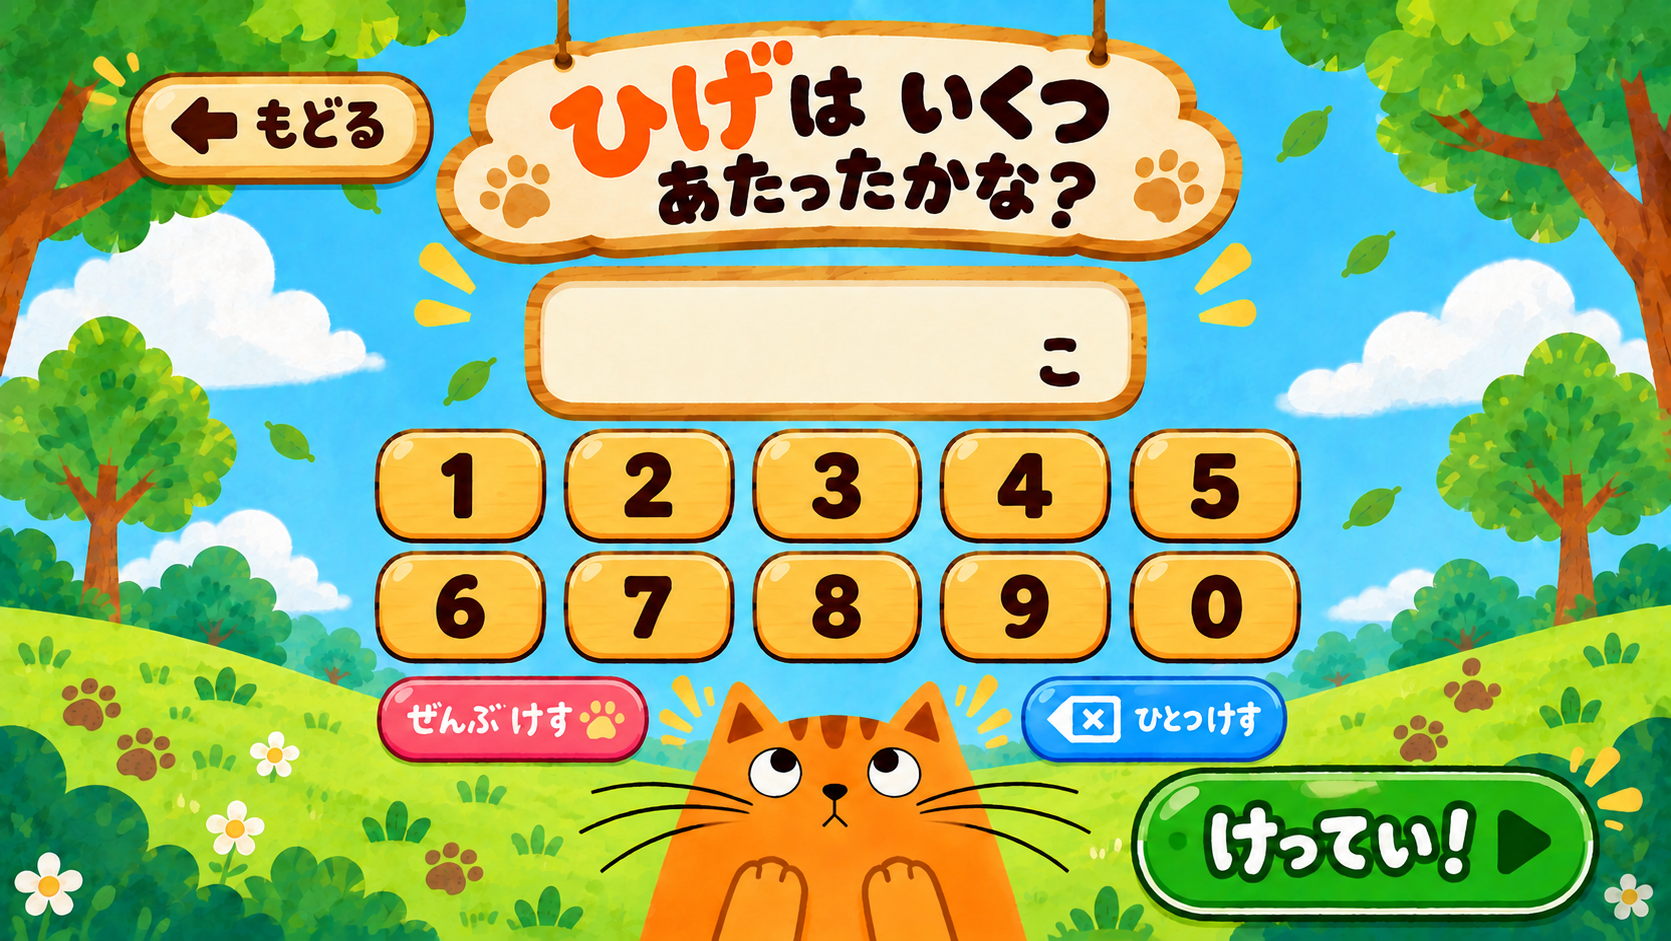
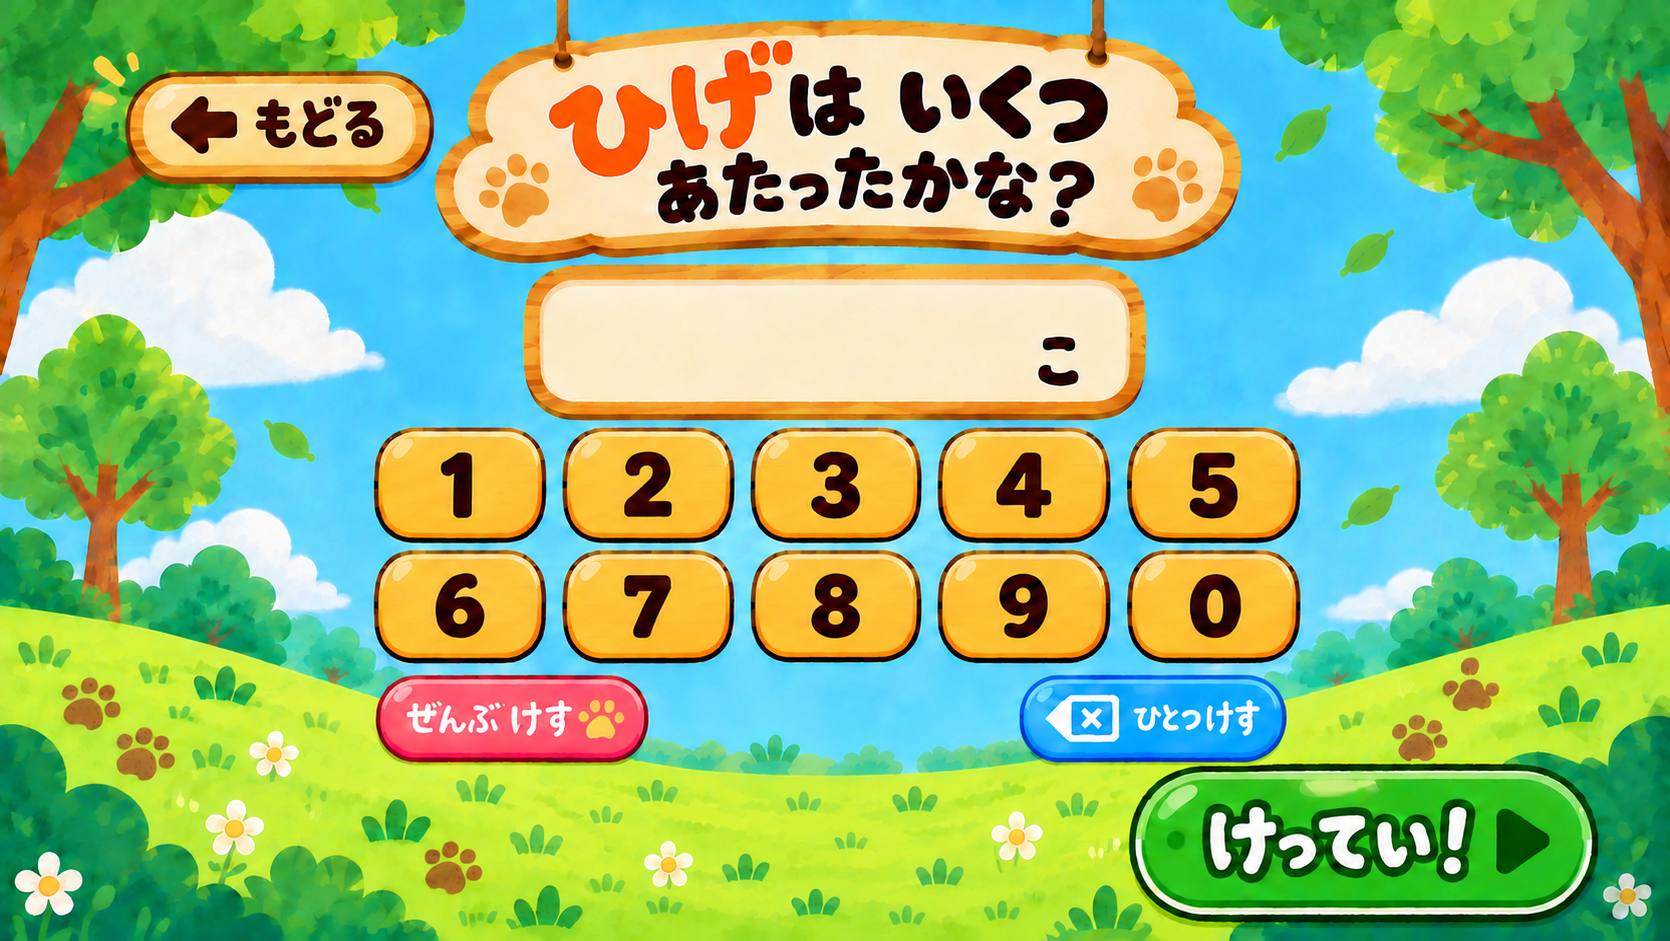
fix:葉の画面遷移のかくつきを修正

diff --git a/frontend/src/components/WindTransitionCanvas.tsx b/frontend/src/components/WindTransitionCanvas.tsx
@@ -52,8 +52,8 @@ const WindTransitionCanvas = memo(function WindTransitionCanvas() {
     const draw = (now: number) => {
       if (cancelled) return
       frame = requestAnimationFrame(draw)
-      // Limit canvas raster work to 60fps; animation still follows elapsed wall-clock time.
-      const frameInterval = 1000 / 60
+      // Limit canvas raster work to 55fps; animation still follows elapsed wall-clock time.
+      const frameInterval = 1000 / 45
       if (lastFrame !== -Infinity && now - lastFrame < frameInterval) return
       // Carry fractional frame time forward to maintain consistent scheduling.
       lastFrame = lastFrame === -Infinity
